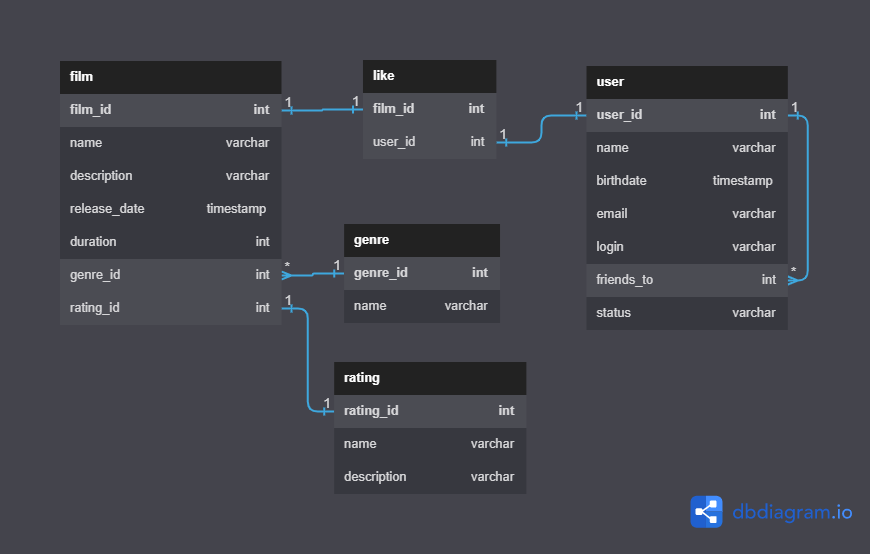
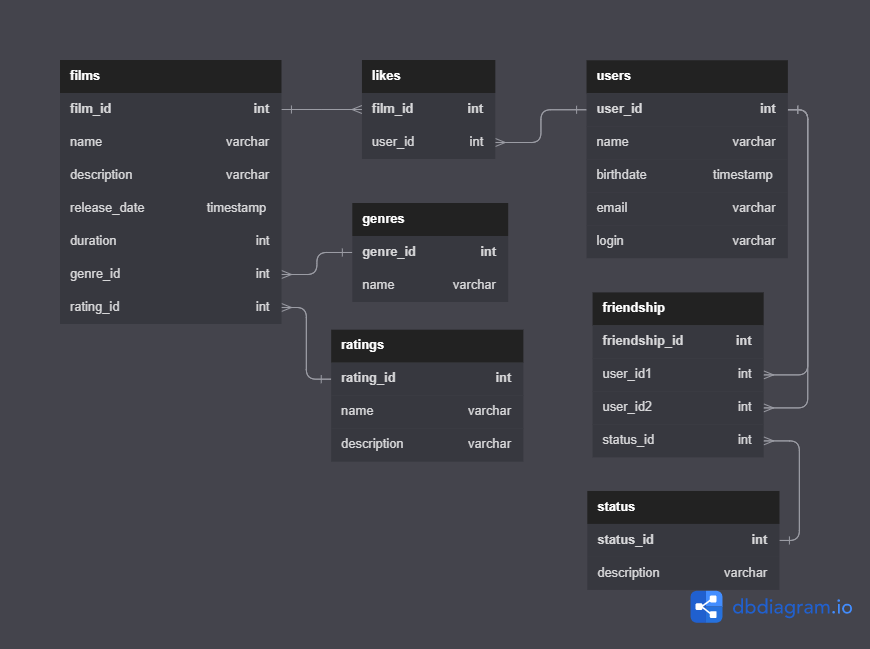
- changed the logic of "friendship" - renamed tables

diff --git a/README.md b/README.md
@@ -1,14 +1,22 @@
 # java-filmorate
+
 Template repository for Filmorate project.
 ![Database scheme](Filmorate.png)
-Схема состоит из 5 таблиц:
-- film
-- user
-- genre
-- rating
-- like
+Схема состоит из 7 таблиц:
+- films
+- users
+- genres
+- ratings
+- likes
+- friendship
+- status
+
+* Таблица status будет включать в себя 3 записи:
+1. Первый запросил дружбу у второго
+2. Второй запросил дружбу у первого
+3. В друзьях
+
   Связи между таблицами обозначены линиями:
-- 1-1 связь one to one
 - *-1 связь many to one
 
 Примеры основных запросов для Film:
@@ -16,20 +24,22 @@ Template repository for Filmorate project.
 1) метод getAll():
    ``` sql
    SELECT *
-   FROM film;
+   FROM films;
    ``` 
 2) метод getById(int id):
    ``` sql
    SELECT *
-   FROM film
+   FROM films
    WHERE film_id=id;
    ``` 
 3) метод getTopFilmCount(int count):
    ``` sql
-   SELECT COUNT(DISTINCT(user_id)) AS top
-   FROM like
-   GROUP BY film_id
-   ORDER BY top DESC
+   SELECT *
+   FROM films AS f
+   RIGHT JOIN (SELECT film_id
+               FROM likes
+               GROUP BY film_id
+               ORDER BY COUNT(user_id) DESC) AS l ON (l.film_id = f.film_id)
    LIMIT count;
 
 Примеры основных запросов для User:
@@ -37,31 +47,50 @@ Template repository for Filmorate project.
 1) метод getAll():
    ``` sql
    SELECT *
-   FROM user;
+   FROM users;
    ``` 
 
 2) метод getById(int id):
    ``` sql
    SELECT *
-   FROM user
+   FROM users
    WHERE user_id=id;
    ``` 
 3) метод getUserFriends(int id):
 
 ``` sql
-   SELECT friends_to
-   FROM user
-   WHERE user_id=id;
+   SELECT user_id2
+   FROM friendship
+   WHERE user_id1 = id
+     AND status = 3
+   UNION
+   SELECT user_id1
+   FROM friendship
+   WHERE user_id2 = id
+     AND status = 3;
    ``` 
 
 4) метод getCommonFriends(int id, int otherId):
 
 ``` sql
-   SELECT u2.friends_to
-   FROM user AS u2
-   WHERE user_id=id
-   JOIN (SELECT friends_to
-   FROM user
-   WHERE user_id=otherId) AS u1 ON u1.friends_to=u2.friends_to;
+   (SELECT user_id2
+   FROM friendship
+   WHERE user_id1 = id
+     AND status = 3
+   UNION
+   SELECT user_id1
+   FROM friendship
+   WHERE user_id2 = id
+     AND status = 3)
+   INTERSECT
+   (SELECT user_id2
+   FROM friendship
+   WHERE user_id1 = otherId
+     AND status = 3
+   UNION
+   SELECT user_id1
+   FROM friendship
+   WHERE user_id2 = otherId
+     AND status = 3);
    ```
    
